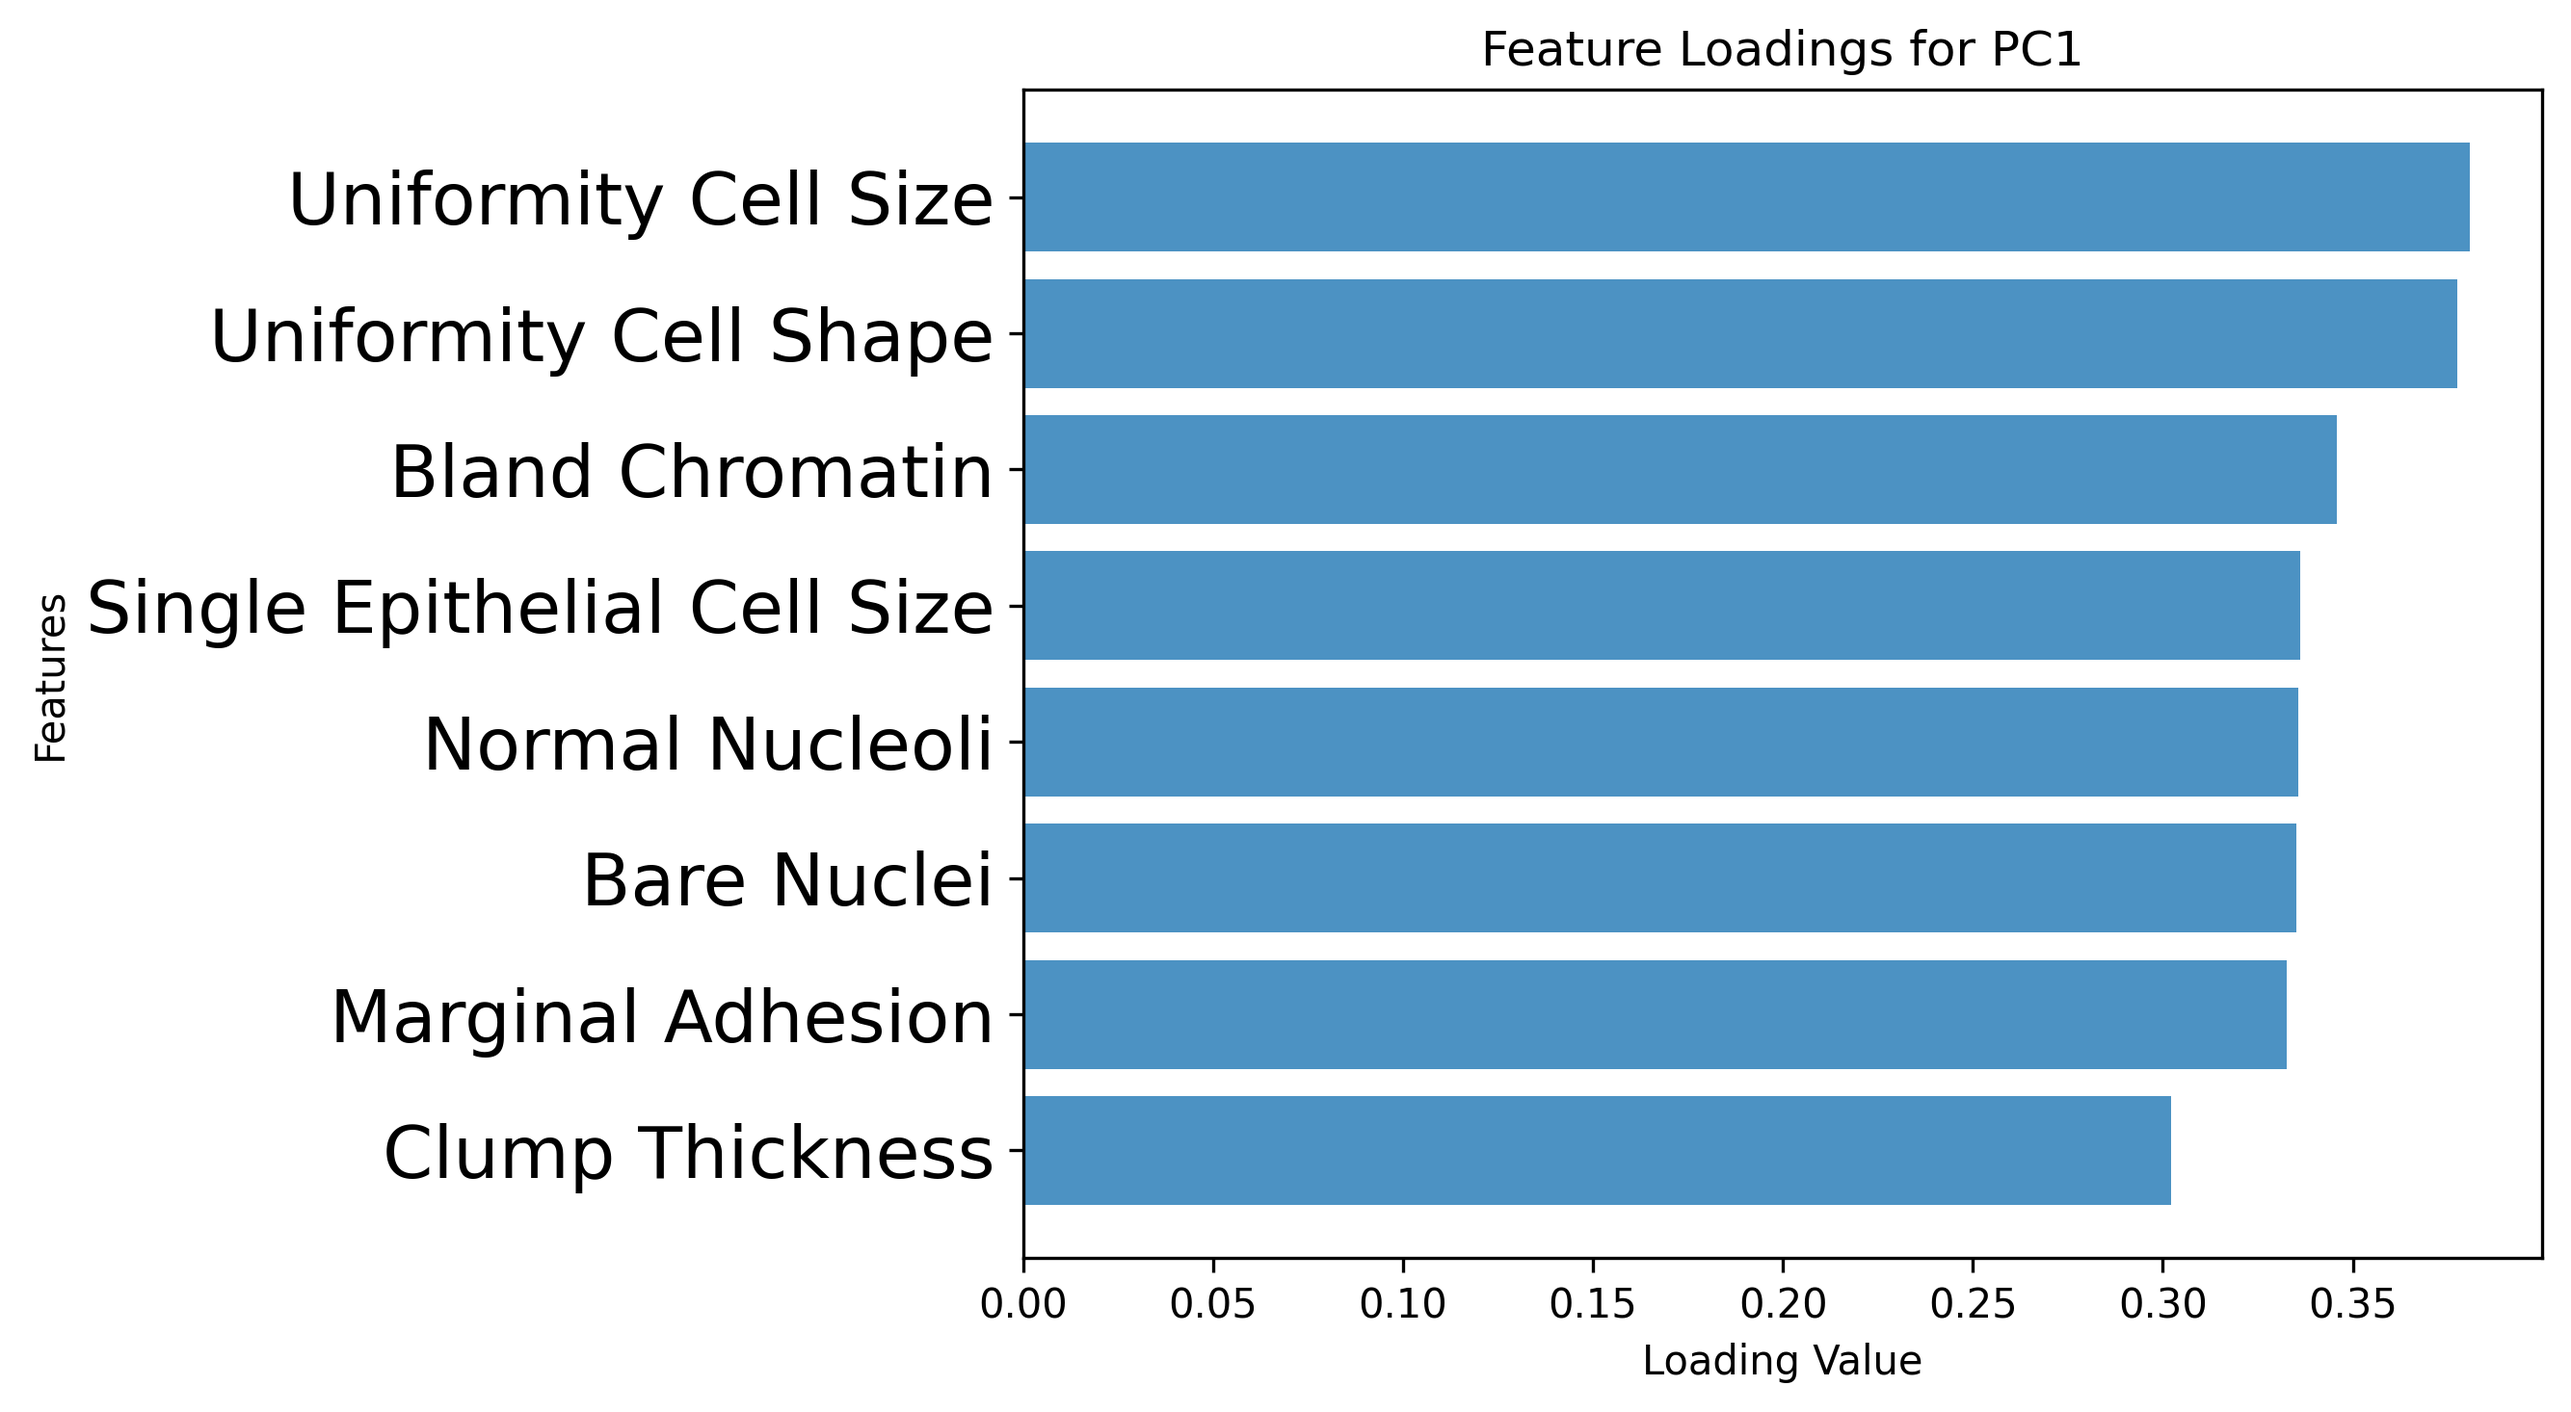
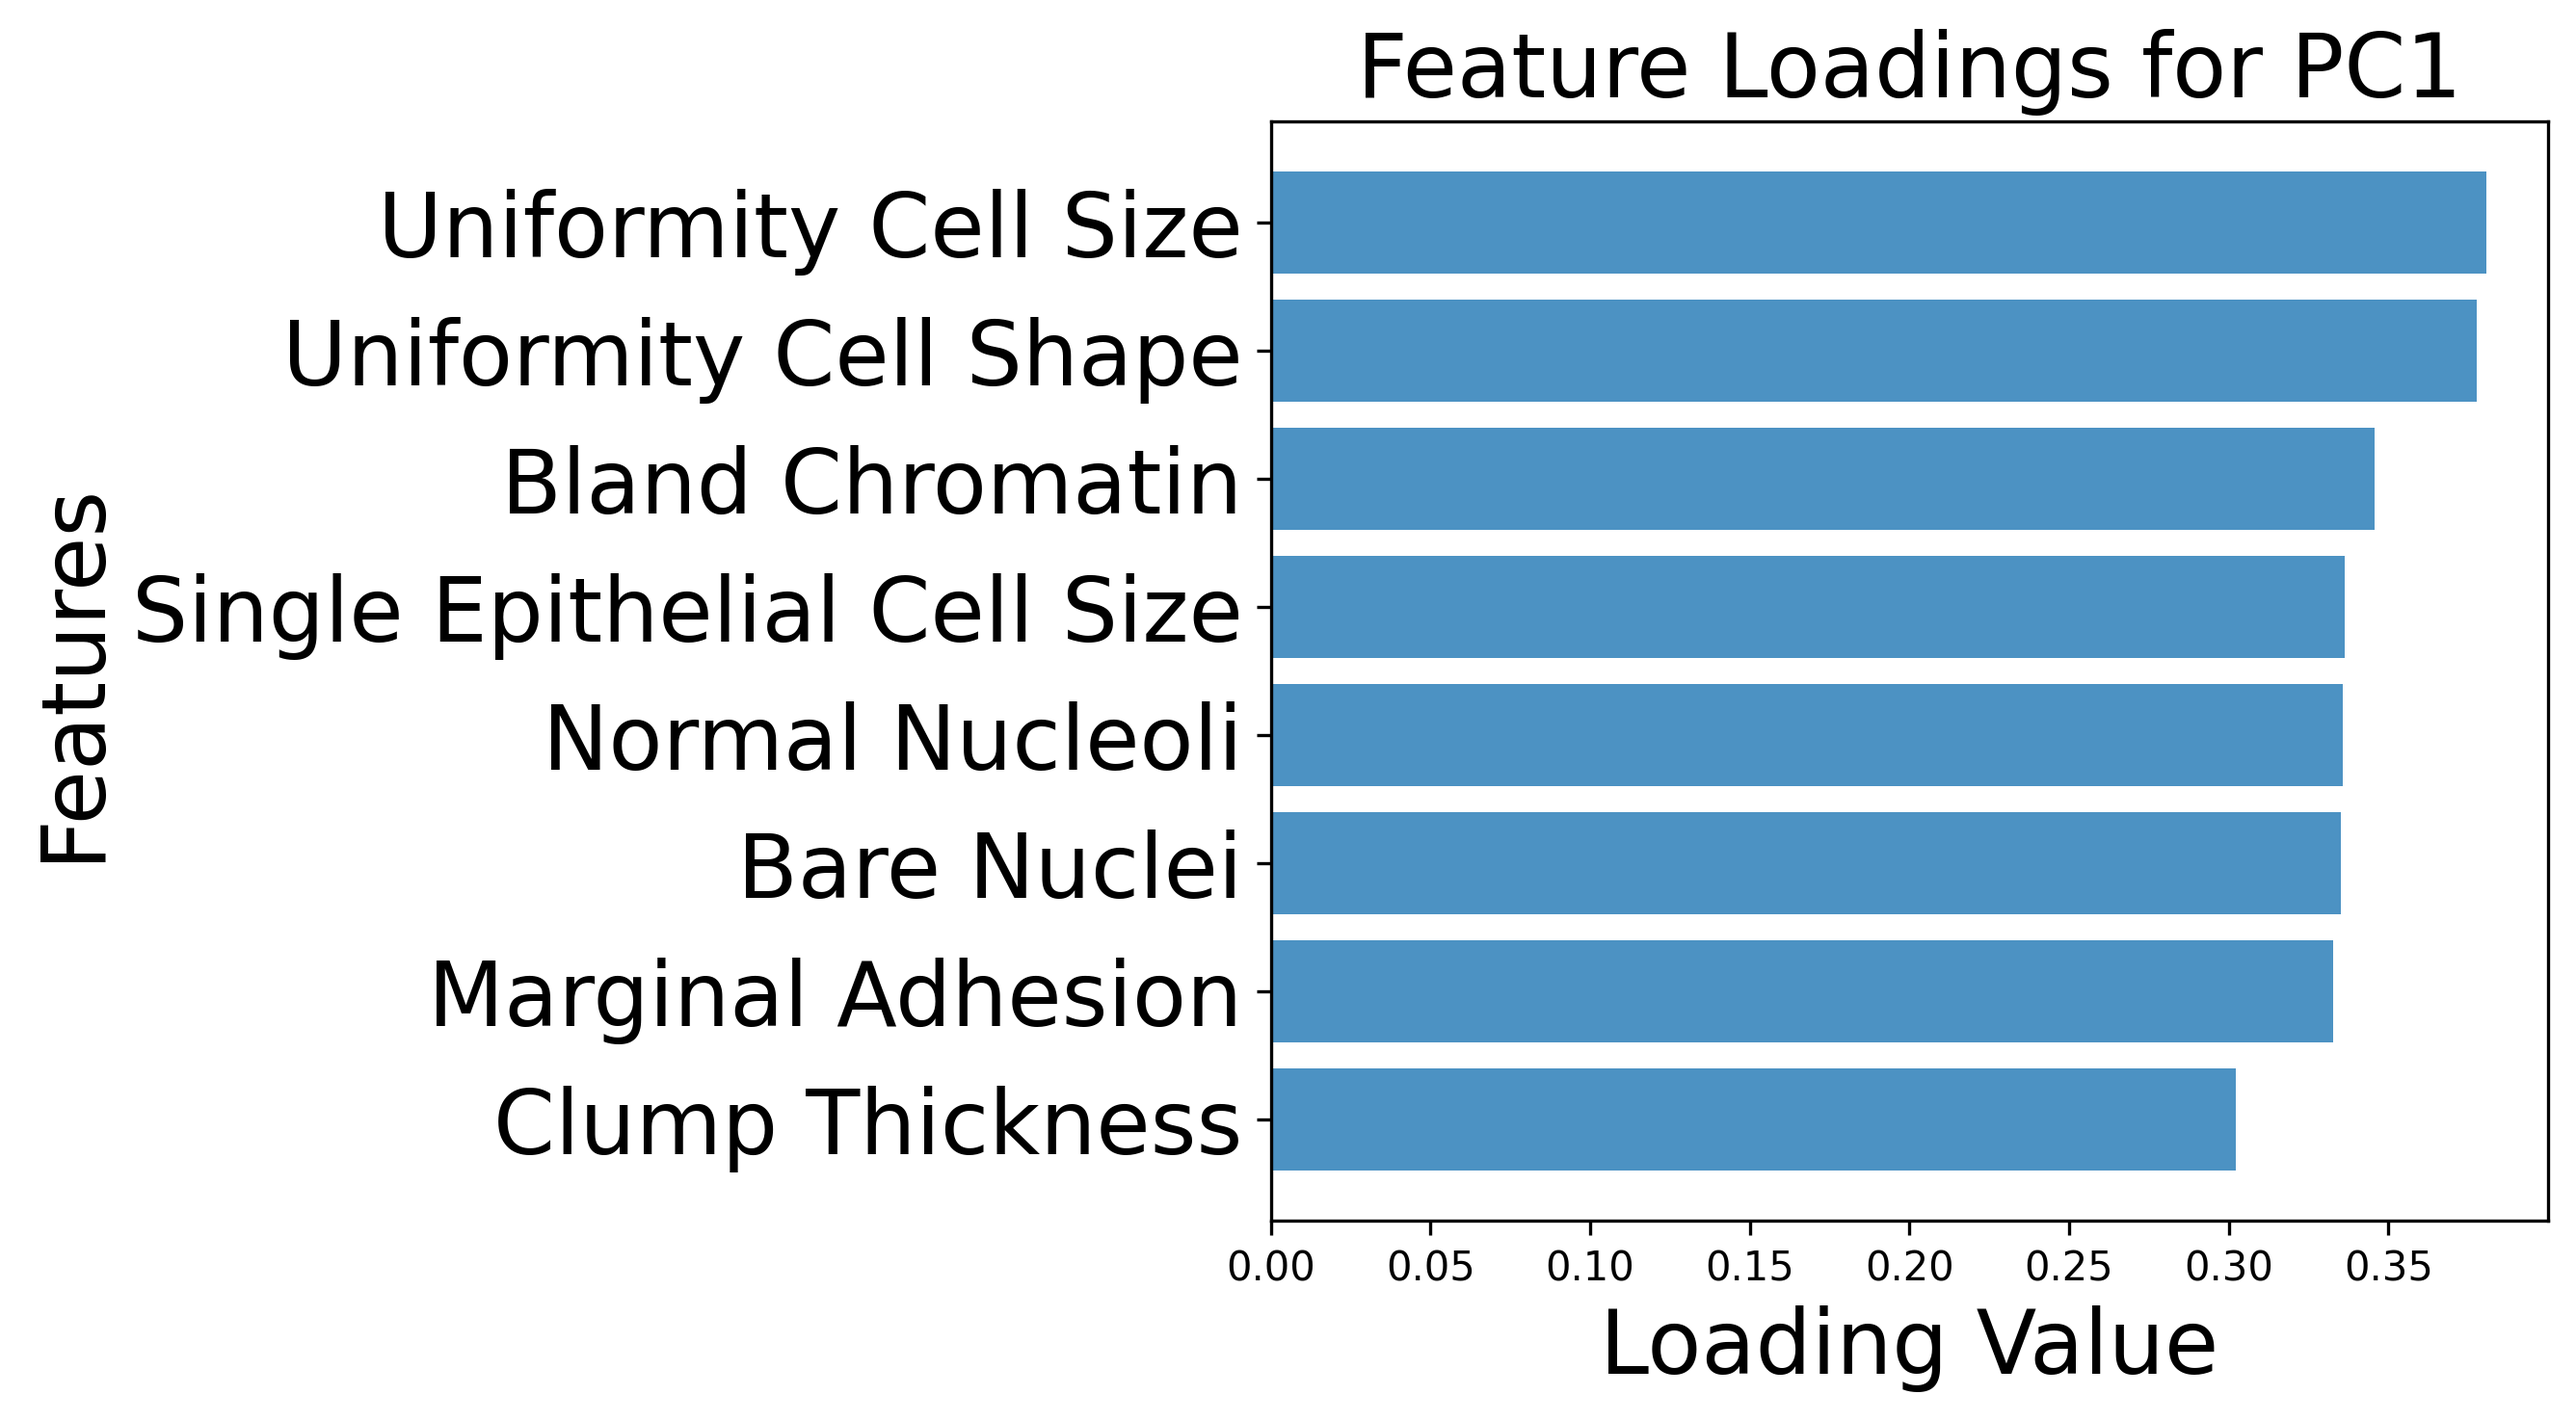
updated font sizes for figures

Changed region(s): [[0.0, 0.0, 0.9955, 0.9823]]

diff --git a/src/pca_analysis.py b/src/pca_analysis.py
@@ -86,17 +86,18 @@ def print_loadings(loadings_df: pd.DataFrame, pc: str = "PC1", top_n: int = 5) -
     print(top_negative.to_string())
 
 
-# Bar plot to visualise most important feature loadings for a given principal component
+
 def plot_loadings_bar(
     loadings_df: pd.DataFrame,
     pc: str = "PC1",
     top_n: int = 8,
     output_path: str = "Figures/pca_loadings_pc1.png",
     label_map: dict[str, str] | None = None,
-    prettify_labels: bool = True,
-    title_fontsize: int = 12,
-    y_axis_label_fontsize: int | None = None,
-    feature_tick_fontsize: int = 18,
+    format_feature_labels: bool = True,
+    title_fontsize: int = 22,
+    x_axis_label_fontsize: int = 22,
+    y_axis_label_fontsize: int = 22,
+    feature_tick_fontsize: int = 22,
 ) -> None:
 
     # Select loadings for the specified principal component
@@ -108,19 +109,18 @@ def plot_loadings_bar(
     s = s.loc[top_features].sort_values()
 
     plt.figure(figsize=(9, 5))
-    y_labels = list(s.index)
+    raw_labels = list(s.index)
     if label_map is not None:
-        y_labels = [label_map.get(name, name) for name in y_labels]
-    elif prettify_labels:
-        y_labels = [str(name).replace("_", " ") for name in y_labels]
+        y_labels = [label_map.get(str(name), str(name)) for name in raw_labels]
+    elif format_feature_labels:
+        y_labels = [str(name).replace("_", " ") for name in raw_labels]
+    else:
+        y_labels = [str(name) for name in raw_labels]
 
     plt.barh(y_labels, s.values, alpha=0.8)  # bar plot
     plt.title(f"Feature Loadings for {pc}", fontsize=title_fontsize)
-    plt.xlabel("Loading Value")
-    if y_axis_label_fontsize is None:
-        plt.ylabel("Features")
-    else:
-        plt.ylabel("Features", fontsize=y_axis_label_fontsize)
+    plt.xlabel("Loading Value", fontsize=x_axis_label_fontsize)
+    plt.ylabel("Features", fontsize=y_axis_label_fontsize)
 
     plt.tick_params(axis="y", labelsize=feature_tick_fontsize)
     plt.tight_layout()
